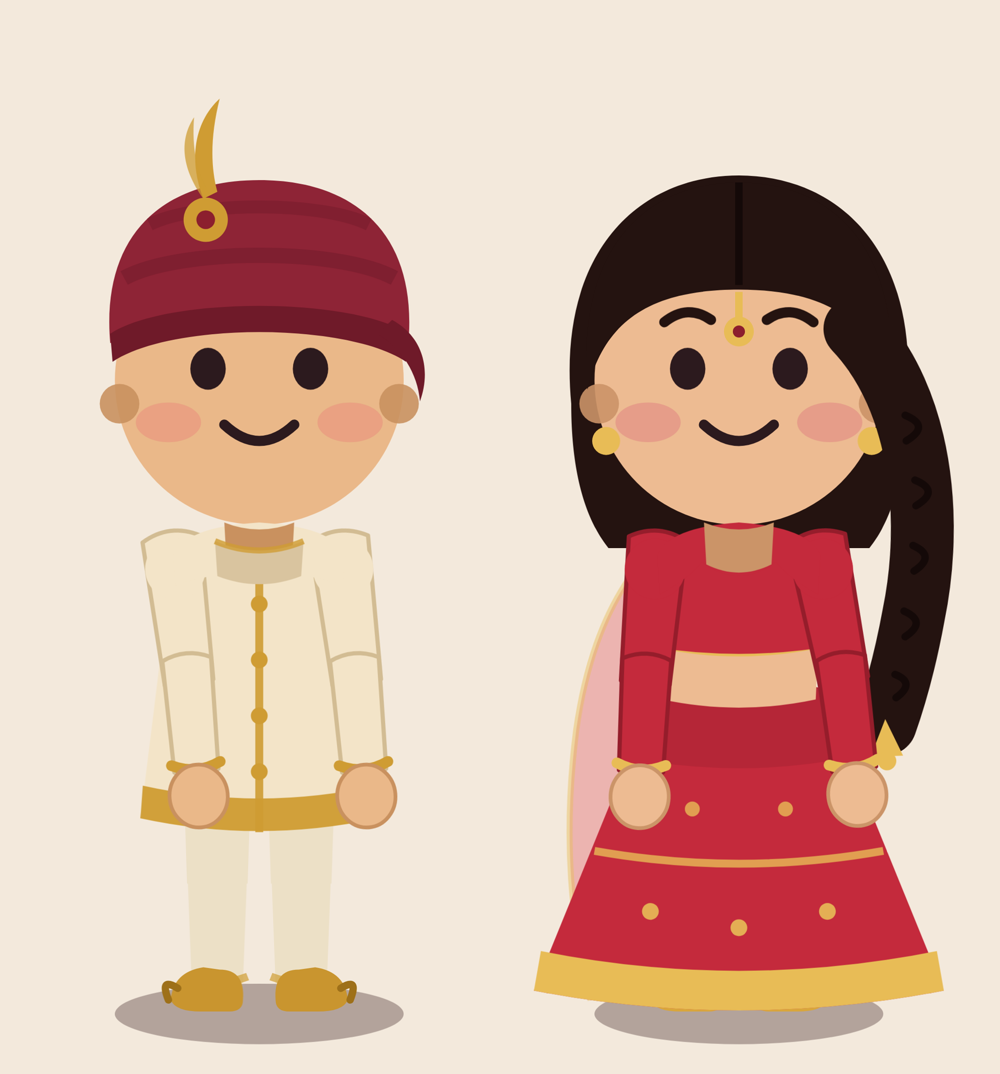
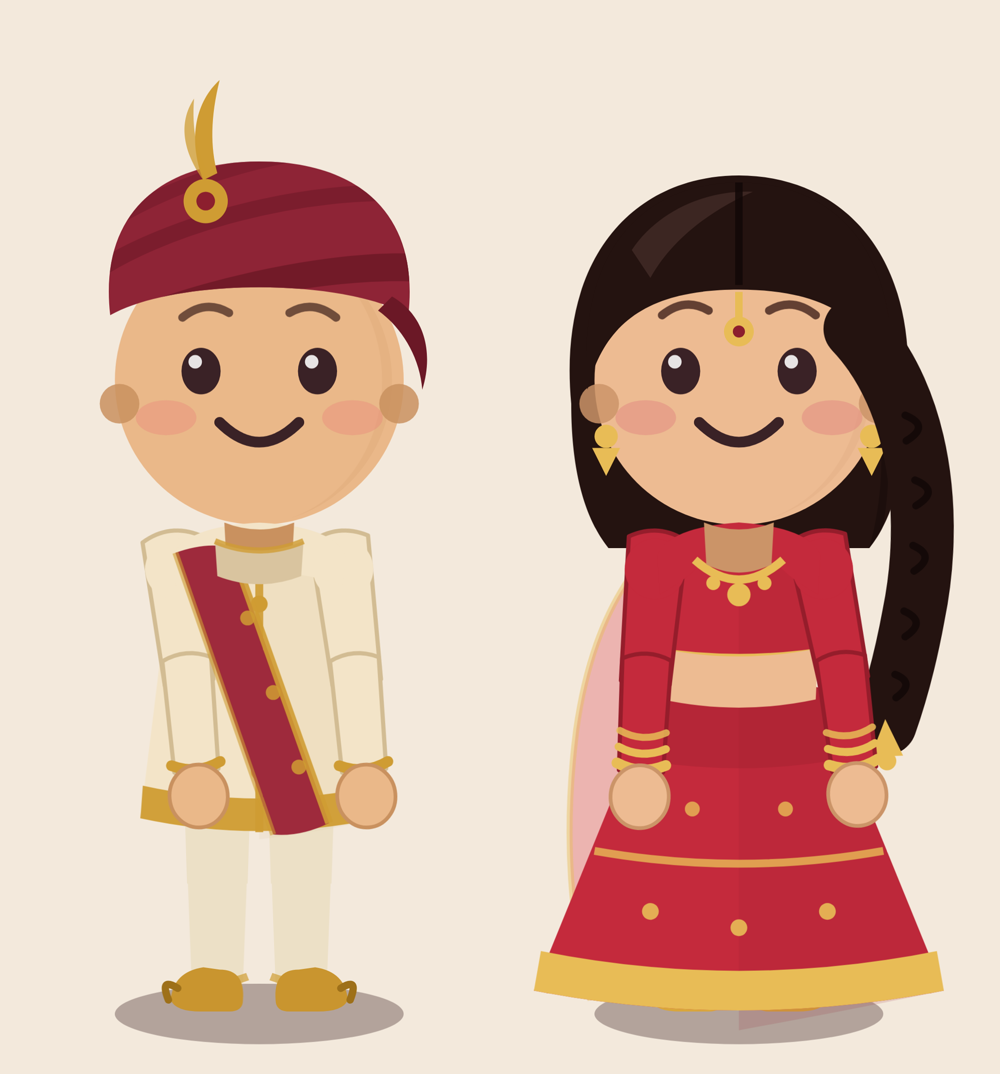
Raise the character quality: shading, costume detail, jewellery
- soft tonal shading on head, sherwani, choli and lehenga, lit upper-left
- safa rebuilt with diagonal wrap folds under a clipPath, raised off the
  brow line so the eyebrows stay visible for the surprise beat
- a maroon stole across the sherwani for asymmetry
- necklace, jhumka earrings and stacked bangles for Vasudha, plus a sheen
  on the hair so it is not a flat black mass
- larger eyes with a highlight, softer brows in a warm brown, wider set

Claude-Session: https://claude.ai/code/session_011Sji7uNUGrFXh9em4rqQ1L

diff --git a/wedding-film/index.html b/wedding-film/index.html
@@ -189,17 +189,19 @@ function mulberry32(a){return function(){a|=0;a=a+0x6D2B79F5|0;let t=Math.imul(a
    cute rather than as a wooden toy.                                   */
 function face(id,o){
   return `
-    <ellipse cx="-39" cy="-250" rx="14" ry="8.5" fill="${o.blush}" opacity=".5"/>
-    <ellipse cx="39"  cy="-250" rx="14" ry="8.5" fill="${o.blush}" opacity=".5"/>
+    <ellipse cx="-40" cy="-252" rx="13" ry="7.5" fill="${o.blush}" opacity=".42"/>
+    <ellipse cx="40"  cy="-252" rx="13" ry="7.5" fill="${o.blush}" opacity=".42"/>
     <g class="brows an an-${id}-brows">
-      <path d="M -32,-291 Q -22,-299 -12,-292" stroke="${o.hair}" stroke-width="4.4" fill="none" stroke-linecap="round"/>
-      <path d="M 12,-292  Q 22,-299 32,-291"  stroke="${o.hair}" stroke-width="4.4" fill="none" stroke-linecap="round"/>
+      <path d="M -33,-294 Q -23,-302 -13,-296" stroke="${o.brow}" stroke-width="3.6" fill="none" stroke-linecap="round" opacity=".85"/>
+      <path d="M 13,-296  Q 23,-302 33,-294"  stroke="${o.brow}" stroke-width="3.6" fill="none" stroke-linecap="round" opacity=".85"/>
     </g>
     <g class="eyes an an-${id}-eyes">
-      <ellipse cx="-22" cy="-273" rx="7.6" ry="9" fill="#2c1a1e"/>
-      <ellipse cx="22"  cy="-273" rx="7.6" ry="9" fill="#2c1a1e"/>
+      <ellipse cx="-25" cy="-272" rx="8.4" ry="10" fill="#3a2226"/>
+      <ellipse cx="25"  cy="-272" rx="8.4" ry="10" fill="#3a2226"/>
+      <circle cx="-27.5" cy="-276" r="2.9" fill="#fff" opacity=".88"/>
+      <circle cx="22.5"  cy="-276" r="2.9" fill="#fff" opacity=".88"/>
     </g>
-    <path d="M -15,-249 Q 0,-235 15,-249" stroke="#2c1a1e" stroke-width="4.4" fill="none" stroke-linecap="round"/>`;
+    <path d="M -17,-250 Q 0,-233 17,-250" stroke="#3a2226" stroke-width="4.6" fill="none" stroke-linecap="round"/>`;
 }
 /* one arm: tapered upper + forearm + mitten hand, props ride in the hand */
 function arm(id,side,o){
@@ -211,6 +213,8 @@ function arm(id,side,o){
       <path d="M ${sx-10.5},-148 Q ${sx},-153 ${sx+10.5},-148 L ${sx+9.5},-100 Q ${sx},-94 ${sx-9.5},-100 Z"
             fill="${o.sleeve}" stroke="${o.sleeveDk}" stroke-width="1.8" stroke-linejoin="round"/>
       <path d="M ${sx-10.5},-103 Q ${sx},-98 ${sx+10.5},-103" stroke="${o.trim}" stroke-width="4.6" fill="none" stroke-linecap="round"/>
+      ${o.bangles ? `<path d="M ${sx-10.2},-110 Q ${sx},-105 ${sx+10.2},-110" stroke="${o.trim}" stroke-width="3.4" fill="none" stroke-linecap="round"/>
+        <path d="M ${sx-10},-117 Q ${sx},-112 ${sx+10},-117" stroke="${o.trim}" stroke-width="3" fill="none" stroke-linecap="round" opacity=".85"/>` : ''}
       <ellipse cx="${sx}" cy="-89" rx="12.5" ry="13.5" fill="${o.skin}" stroke="${o.skinSh}" stroke-width="1.6"/>
       ${o['prop'+side]||''}
     </g></g>`;
@@ -234,30 +238,37 @@ function makeChar(id,o){
   /* ---- Prem: cream sherwani, maroon safa with a kalgi ---- */
   const sherwani = `
     <path d="M -37,-193 Q -32,-205 0,-207 Q 32,-205 37,-193 L 51,-80 Q 0,-69 -51,-80 Z" fill="${o.garment}"/>
+    <path d="M 0,-207 Q 32,-205 37,-193 L 51,-80 Q 26,-74 0,-71 Z" fill="${o.garmentDk}" opacity=".16"/>
     <path d="M 0,-196 L 0,-74" stroke="${o.trim}" stroke-width="3.4" opacity=".9"/>
     <circle cx="0" cy="-172" r="3.6" fill="${o.trim}"/><circle cx="0" cy="-148" r="3.6" fill="${o.trim}"/>
     <circle cx="0" cy="-124" r="3.6" fill="${o.trim}"/><circle cx="0" cy="-100" r="3.6" fill="${o.trim}"/>
     <path d="M -51,-80 Q 0,-69 51,-80 L 50,-94 Q 0,-83 -50,-94 Z" fill="${o.trim}" opacity=".95"/>`;
   const safa = `
-    <path d="M -64,-284 C -68,-330 -42,-354 0,-354 C 42,-354 68,-330 64,-284
-             C 36,-300 -36,-300 -64,-284 Z" fill="${o.hat}"/>
-    <path d="M -64,-288 C -40,-304 40,-304 64,-288 L 63,-276 C 38,-293 -38,-293 -63,-276 Z" fill="${o.hatDk}"/>
-    <path d="M -58,-312 C -34,-325 34,-325 58,-312" stroke="${o.hatDk}" stroke-width="6.5" fill="none" opacity=".5"/>
-    <path d="M -47,-335 C -27,-345 27,-345 47,-335" stroke="${o.hatDk}" stroke-width="5.5" fill="none" opacity=".4"/>
-    <path d="M 57,-294 C 70,-287 74,-273 69,-259 C 68,-271 61,-282 51,-288 Z" fill="${o.hatDk}"/>
-    <path d="M -24,-346 C -31,-364 -27,-380 -17,-389 C -21,-373 -21,-360 -18,-349 Z" fill="${o.trim}"/>
-    <path d="M -24,-346 C -34,-360 -34,-372 -28,-381 C -29,-368 -27,-357 -21,-348 Z" fill="${o.trim}" opacity=".75"/>
-    <circle cx="-23" cy="-337" r="9.5" fill="${o.trim}"/>
-    <circle cx="-23" cy="-337" r="4" fill="#8c1f2e"/>`;
+    <defs><clipPath id="tc-${id}"><path d="M -64,-296 C -69,-340 -42,-362 0,-362 C 42,-362 69,-340 64,-296 C 36,-312 -36,-312 -64,-296 Z"/></clipPath></defs>
+    <path d="M -64,-296 C -69,-340 -42,-362 0,-362 C 42,-362 69,-340 64,-296
+             C 36,-312 -36,-312 -64,-296 Z" fill="${o.hat}"/>
+    <g clip-path="url(#tc-${id})">
+      <path d="M -70,-292 C -40,-308 30,-326 74,-322 L 74,-310 C 30,-314 -38,-298 -70,-282 Z" fill="${o.hatDk}" opacity=".8"/>
+      <path d="M -74,-312 C -44,-334 20,-352 70,-348" stroke="${o.hatDk}" stroke-width="7" fill="none" opacity=".55"/>
+      <path d="M -70,-332 C -44,-350 4,-368 48,-368" stroke="${o.hatDk}" stroke-width="6" fill="none" opacity=".42"/>
+      <path d="M 30,-364 C 54,-352 64,-334 66,-314" stroke="${o.hatDk}" stroke-width="4.5" fill="none" opacity=".3"/>
+    </g>
+    <path d="M 57,-304 C 71,-296 75,-280 70,-264 C 69,-278 61,-291 51,-298 Z" fill="${o.hatDk}"/>
+    <path d="M -24,-354 C -31,-372 -27,-388 -17,-397 C -21,-381 -21,-368 -18,-357 Z" fill="${o.trim}"/>
+    <path d="M -24,-354 C -34,-368 -34,-380 -28,-389 C -29,-376 -27,-365 -21,-356 Z" fill="${o.trim}" opacity=".75"/>
+    <circle cx="-23" cy="-345" r="9.5" fill="${o.trim}"/>
+    <circle cx="-23" cy="-345" r="4" fill="#8c1f2e"/>`;
 
   /* ---- Vasudha: red-and-gold lehenga, dupatta, long plait ---- */
   const choli = `
     <path d="M -35,-193 Q -30,-205 0,-207 Q 30,-205 35,-193 L 41,-150 Q 0,-142 -41,-150 Z" fill="${o.garment}"/>
+    <path d="M 0,-207 Q 30,-205 35,-193 L 41,-150 Q 20,-146 0,-144 Z" fill="${o.garmentDk}" opacity=".16"/>
     <path d="M -41,-152 Q 0,-145 41,-152" stroke="${o.trim}" stroke-width="4.2" fill="none" stroke-linecap="round"/>
     <path d="M -34,-153 Q 0,-146 34,-153 L 33,-131 Q 0,-124 -33,-131 Z" fill="${o.skin}"/>`;
   const lehenga = `
     <g class="skirt an an-${id}-skirt">
       <path d="M -35,-136 Q 0,-143 35,-136 L 88,-6 Q 0,11 -88,-6 Z" fill="${o.garment}"/>
+      <path d="M 0,-139 Q 20,-140 35,-136 L 88,-6 Q 44,3 0,11 Z" fill="${o.garmentDk}" opacity=".15"/>
       <path d="M -35,-136 Q 0,-143 35,-136 L 47,-106 Q 0,-97 -47,-106 Z" fill="${o.garmentDk}" opacity=".35"/>
       <path d="M -62,-66 Q 0,-55 62,-66" stroke="${o.trim}" stroke-width="3.4" fill="none" opacity=".8"/>
       <path d="M -88,-6 Q 0,11 88,-6 L 85,-23 Q 0,-6 -85,-23 Z" fill="${o.trim}"/>
@@ -269,16 +280,20 @@ function makeChar(id,o){
     </g>`;
   const hairBack = `
     <path d="M -72,-258 C -78,-322 -44,-356 0,-356 C 44,-356 78,-322 72,-258
-             C 72,-224 64,-206 56,-196 L -56,-196 C -64,-206 -72,-224 -72,-258 Z" fill="${o.hair}"/>`;
+             C 72,-224 64,-206 56,-196 L -56,-196 C -64,-206 -72,-224 -72,-258 Z" fill="${o.hair}"/>
+    <path d="M 40,-300 C 62,-280 68,-242 62,-206 L 56,-196 C 66,-232 62,-274 40,-300 Z" fill="#000" opacity=".22"/>`;
   const hairFront = `
     <path d="M -65,-264 C -70,-324 -41,-353 0,-353 C 41,-353 70,-324 65,-264
              C 58,-292 40,-307 0,-307 C -40,-307 -58,-292 -65,-264 Z" fill="${o.hair}"/>
+    <path d="M -46,-324 C -34,-342 -12,-350 6,-349 C -10,-342 -28,-330 -38,-312 Z" fill="#6a4a44" opacity=".35"/>
     <path d="M 0,-353 L 0,-309" stroke="${o.hairDk}" stroke-width="3.2" opacity=".85"/>
     <path d="M 0,-306 L 0,-294" stroke="${o.trim}" stroke-width="3.2"/>
     <circle cx="0" cy="-289" r="6.4" fill="${o.trim}"/>
     <circle cx="0" cy="-289" r="2.6" fill="#8c1f2e"/>
-    <circle cx="-57" cy="-242" r="6" fill="${o.trim}"/>
-    <circle cx="57"  cy="-242" r="6" fill="${o.trim}"/>`;
+    <circle cx="-57" cy="-244" r="5" fill="${o.trim}"/>
+    <path d="M -63,-239 L -51,-239 L -57,-227 Z" fill="${o.trim}"/>
+    <circle cx="57"  cy="-244" r="5" fill="${o.trim}"/>
+    <path d="M 51,-239 L 63,-239 L 57,-227 Z" fill="${o.trim}"/>`;
   const plait = `
     <g class="plait an an-${id}-plait">
       <path d="M 50,-290 C 78,-258 80,-206 70,-166 C 65,-144 60,-130 56,-120"
@@ -319,8 +334,9 @@ function makeChar(id,o){
       <g class="head an an-${id}-head">
         ${o.kind==='lehenga' ? hairBack : ''}
         <circle cx="0" cy="-268" r="62" fill="${o.skin}"/>
-        <circle cx="-60" cy="-258" r="8.5" fill="${o.skinSh}" opacity=".9"/>
-        <circle cx="60"  cy="-258" r="8.5" fill="${o.skinSh}" opacity=".9"/>
+        <path d="M 14,-327 A 62,62 0 0 1 14,-209 A 56,62 0 0 0 14,-327 Z" fill="${o.skinSh}" opacity=".14"/>
+        <circle cx="-60" cy="-258" r="8.5" fill="${o.skinSh}" opacity=".85"/>
+        <circle cx="60"  cy="-258" r="8.5" fill="${o.skinSh}" opacity=".85"/>
         ${face(id,o)}
         ${headwear}
         ${o.kind==='lehenga' ? plait : ''}
@@ -330,10 +346,21 @@ function makeChar(id,o){
       <circle cx="-36" cy="-187" r="13" fill="${o.sleeve}"/>
       <circle cx="36"  cy="-187" r="13" fill="${o.sleeve}"/>
       ${o.kind==='sherwani' ? `<path d="M -37,-193 Q -32,-205 0,-207 Q 32,-205 37,-193 L 36,-180 Q 0,-192 -36,-180 Z" fill="${o.garment}"/>` : ''}
-      ${o.kind==='lehenga'  ? `<path d="M -35,-193 Q -30,-205 0,-207 Q 30,-205 35,-193 L 34,-176 Q 20,-184 16,-190 Q 0,-178 -16,-190 Q -20,-184 -34,-176 Z" fill="${o.garment}"/>` : ''}
+      ${o.kind==='lehenga'  ? `<path d="M -35,-193 Q -30,-205 0,-207 Q 30,-205 35,-193 L 34,-176 Q 20,-184 16,-190 Q 0,-178 -16,-190 Q -20,-184 -34,-176 Z" fill="${o.garment}"/>
+        <path d="M -19,-191 Q 0,-174 19,-191" stroke="${o.trim}" stroke-width="3.6" fill="none"/>
+        <circle cx="0" cy="-176" r="5" fill="${o.trim}"/>
+        <circle cx="-11" cy="-181" r="3" fill="${o.trim}"/>
+        <circle cx="11"  cy="-181" r="3" fill="${o.trim}"/>` : ''}
       ${o.kind==='simple'   ? `<path d="M -35,-193 Q -30,-205 0,-207 Q 30,-205 35,-193 L 34,-180 Q 0,-192 -34,-180 Z" fill="${o.garment}"/>` : ''}
       <path d="M -15,-207 Q 0,-201 15,-207 L 14,-189 Q 0,-182 -14,-189 Z" fill="${o.skinSh}"/>
-      ${o.kind==='sherwani' ? `<path d="M -19,-199 Q 0,-191 19,-199 L 18,-184 Q 0,-177 -18,-184 Z" fill="${o.garmentDk}"/><path d="M -19,-199 Q 0,-191 19,-199" stroke="${o.trim}" stroke-width="2.6" fill="none" opacity=".8"/>` : ''}
+      ${o.kind==='sherwani' ? `<path d="M -36,-194 Q -22,-199 -12,-196 L 30,-78 Q 18,-72 6,-73 Z" fill="${o.stole}"/>
+        <path d="M -12,-196 L 30,-78" stroke="${o.trim}" stroke-width="3.4" fill="none" opacity=".9"/>
+        <path d="M -36,-194 L 6,-73" stroke="${o.trim}" stroke-width="2.6" fill="none" opacity=".6"/>
+        <circle cx="-5" cy="-166" r="3.2" fill="${o.trim}" opacity=".85"/>
+        <circle cx="6"  cy="-134" r="3.2" fill="${o.trim}" opacity=".85"/>
+        <circle cx="17" cy="-102" r="3.2" fill="${o.trim}" opacity=".85"/>
+        <path d="M -19,-199 Q 0,-191 19,-199 L 18,-184 Q 0,-177 -18,-184 Z" fill="${o.garmentDk}"/>
+        <path d="M -19,-199 Q 0,-191 19,-199" stroke="${o.trim}" stroke-width="2.6" fill="none" opacity=".8"/>` : ''}
     </g></g></svg>`;
 }
 
@@ -347,12 +374,12 @@ const RING=`<g class="an an-ringhold" style="transform-box:view-box;transform-or
        <path d="M 40,-150 L 46,-110 L 86,-104 L 46,-98 L 40,-58 L 34,-98 L -6,-104 L 34,-110 Z" fill="url(#sparkle)"/></g>
      <circle cx="40" cy="-102" r="10" fill="none" stroke="#f0c75a" stroke-width="4.5"/>
      <circle cx="40" cy="-115" r="6" fill="#fff6dd"/></g>`;
-const PREM={ kind:'sherwani', skin:'#eab889', skinSh:'#c9915f', blush:'#e9897b', hair:'#2e1a16', hairDk:'#1d100d',
+const PREM={ kind:'sherwani', skin:'#eab889', skinSh:'#c9915f', blush:'#e9897b', hair:'#2e1a16', hairDk:'#1d100d', brow:'#5a3a2e',
   garment:'#f3e4c8', garmentDk:'#d9c49f', sleeve:'#f3e4c8', sleeveDk:'#d2bc93', trim:'#cf9c33',
-  trouser:'#ece0c6', trouserDk:'#cdbe9e', shoe:'#c9952f', shoeDk:'#9e7019', hat:'#8e2436', hatDk:'#6f1a29', propr:PHONE(33,-18)+RING };
-const VASU={ kind:'lehenga', skin:'#edbb92', skinSh:'#cb9468', blush:'#e07f7f', hair:'#241310', hairDk:'#120807',
+  trouser:'#ece0c6', trouserDk:'#cdbe9e', shoe:'#c9952f', shoeDk:'#9e7019', stole:'#9e2a3c', hat:'#8e2436', hatDk:'#6b1826', propr:PHONE(33,-18)+RING };
+const VASU={ kind:'lehenga', skin:'#edbb92', skinSh:'#cb9468', blush:'#e07f7f', hair:'#241310', hairDk:'#120807', brow:'#4a2a22',
   garment:'#c42a3c', garmentDk:'#9c1f2e', sleeve:'#c42a3c', sleeveDk:'#951d2b', trim:'#e8bc56',
-  trouser:'#b02433', trouserDk:'#8a1b27', shoe:'#d9a63c', shoeDk:'#ab7d20', veil:'#e0636f', propl:PHONE(-33,16) };
+  trouser:'#b02433', trouserDk:'#8a1b27', shoe:'#d9a63c', shoeDk:'#ab7d20', veil:'#e0636f', bangles:true, propl:PHONE(-33,16) };
 
 /* the two leads are ONE instance each, carried through all four scenes */
 document.getElementById('leads').innerHTML =
@@ -368,9 +395,9 @@ const FAM=[
 ];
 document.getElementById('sc2bg').innerHTML = FAM.map(f=>makeChar(f.id,{
   kind:'simple', cx:f.cx, baseY:1500, w:f.w,
-  skin:'#cda07e', skinSh:'#a87c5c', blush:'#cf8c7d', hair:'#3a2a28', hairDk:'#241917',
+  skin:'#cda07e', skinSh:'#a87c5c', blush:'#cf8c7d', hair:'#3a2a28', hairDk:'#241917', brow:'#5e4038',
   garment:f.c, garmentDk:f.c, sleeve:f.c, sleeveDk:'rgba(0,0,0,.28)', trim:f.t, trouser:f.c, trouserDk:'rgba(0,0,0,.28)', shoe:'#4a3b43', shoeDk:'#2b2227',
-  hatSimple:`<path d="M -64,-282 C -68,-326 -42,-350 0,-350 C 42,-350 68,-326 64,-282 C 36,-300 -36,-300 -64,-282 Z" fill="${f.hat}"/><path d="M -64,-286 C -40,-301 40,-301 64,-286 L 63,-275 C 38,-290 -38,-290 -63,-275 Z" fill="${f.hat}" opacity=".55"/>`
+  hatSimple:`<path d="M -64,-294 C -68,-338 -42,-360 0,-360 C 42,-360 68,-338 64,-294 C 36,-310 -36,-310 -64,-294 Z" fill="${f.hat}"/><path d="M -64,-298 C -40,-313 40,-313 64,-298 L 63,-287 C 38,-302 -38,-302 -63,-287 Z" fill="${f.hat}" opacity=".55"/>`
 })).join('');
 </script>
 
